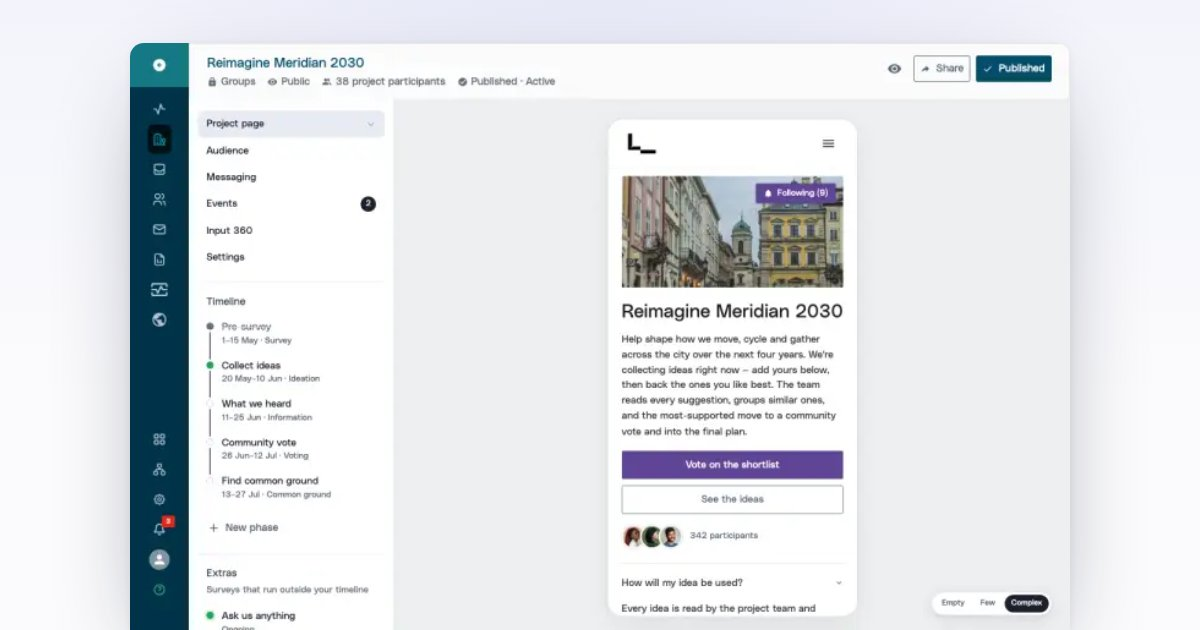
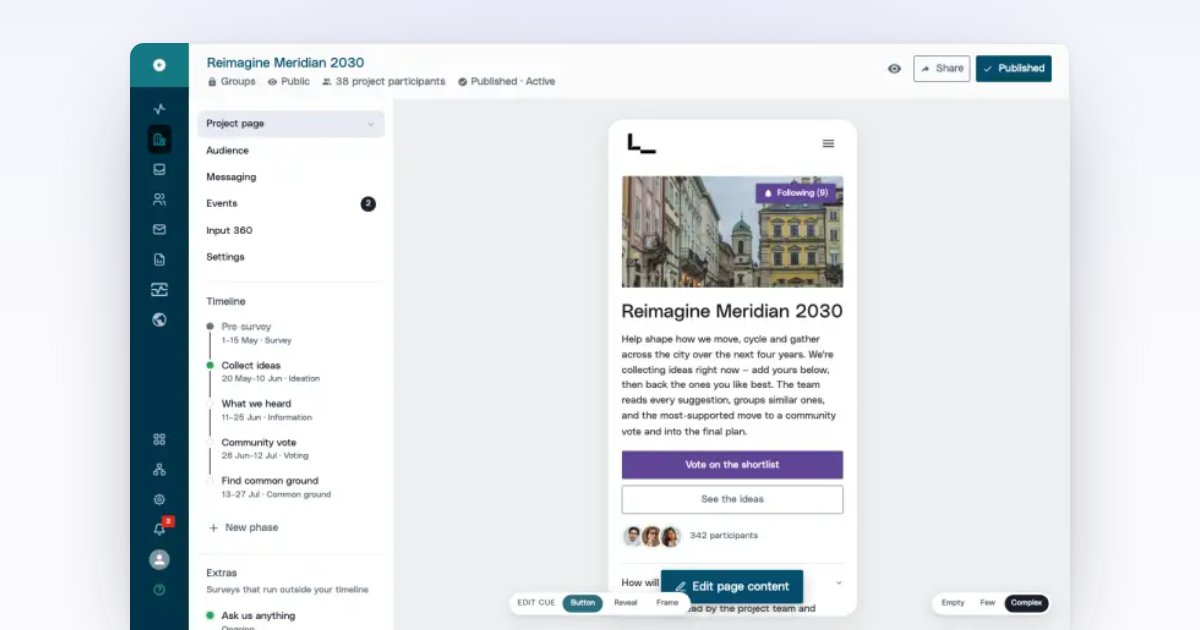
editor-builder-v3: whole-phone edit affordance — 3-cue explorer (Button/Reveal/Frame)
The phone preview is now one click target → content builder (intra-phone controls
inert, page still scrolls; keyboard-accessible as a real button). A bottom-centre
chip swaps three ways to signal it: persistent CTA, hover/focus reveal scrim, and
editor chrome (toolbar + dashed outline). All CTAs use the canonical .gv-btn
admin-dark BO button; Frame mode reserves toolbar headroom in fitPreview.

Changed region(s): [[0.4317, 0.8143, 0.6783, 0.9952]]

diff --git a/parallel-participation/prototypes/parallel-editor-builder-v3/index.html b/parallel-participation/prototypes/parallel-editor-builder-v3/index.html
@@ -419,19 +419,19 @@
   .cue-btn, .cue-corner, .cue-scrim, .cue-bar, .cue-outline { pointer-events: none; }
   .cue-btn svg, .cue-corner svg, .cue-scrim__cta svg, .cue-bar__label svg, .cue-bar__btn svg { display: inline-block; }
 
-  /* 1 · BUTTON — persistent CTA pinned to the preview, visible at rest. */
+  /* 1 · BUTTON — persistent CTA pinned to the preview, visible at rest.
+     The CTA is a real BO button (.gv-btn admin-dark, navy) so it matches the screen
+     we're on; .cue-btn only POSITIONS it + adds a white halo to lift it off content. */
   .cue-btn {
-    position: absolute; left: 50%; bottom: 16px; transform: translateX(-50%);
-    display: none; align-items: center; gap: 7px;
-    padding: 9px 16px; border-radius: 999px;
-    background: #2c6e7d; color: #fff; font-size: 13px; font-weight: 600; white-space: nowrap;
+    position: absolute; left: 50%; bottom: 18px; transform: translateX(-50%);
+    display: none; white-space: nowrap; z-index: 8;
     box-shadow: 0 8px 20px rgba(20,25,40,.24), 0 0 0 3px rgba(255,255,255,.92);
-    z-index: 8; transition: transform .15s ease, background .15s ease;
+    transition: transform .15s ease, filter .15s ease;
   }
-  .cue-btn svg { width: 15px; height: 15px; }
+  .cue-btn svg { width: 16px; height: 16px; }
   .phone-wrap.cue-1 .cue-btn { display: inline-flex; }
   .phone-wrap.cue-1:hover .cue-btn,
-  .phone-wrap.cue-1:focus-within .cue-btn { background: #21525d; transform: translateX(-50%) translateY(-1px); }
+  .phone-wrap.cue-1:focus-within .cue-btn { filter: brightness(.9); transform: translateX(-50%) translateY(-1px); }
 
   /* 2 · REVEAL — clean preview + tiny corner cue; engage fades in a full-surface scrim. */
   .cue-corner {
@@ -449,11 +449,10 @@
     background: rgba(18,38,44,.44);
     opacity: 0; transition: opacity .16s ease; z-index: 8;
   }
+  /* Scrim CTA is the same BO button (.gv-btn admin-dark); only the entrance differs. */
   .cue-scrim__cta {
-    display: inline-flex; align-items: center; gap: 8px;
-    padding: 11px 18px; border-radius: 999px;
-    background: #fff; color: #19282d; font-size: 13.5px; font-weight: 700;
-    box-shadow: 0 10px 26px rgba(0,0,0,.3); transform: translateY(7px); transition: transform .16s ease;
+    box-shadow: 0 10px 26px rgba(0,0,0,.34);
+    transform: translateY(7px); transition: transform .16s ease;
   }
   .cue-scrim__cta svg { width: 16px; height: 16px; }
   .phone-wrap.cue-2 .cue-scrim { display: flex; }
@@ -464,20 +463,20 @@
   .phone-wrap.cue-2:hover .cue-corner,
   .phone-wrap.cue-2:focus-within .cue-corner { opacity: 0; }
 
-  /* 3 · FRAME — editor chrome: a toolbar above + a dashed outline, both at rest. */
+  /* 3 · FRAME — editor chrome: a toolbar above + a dashed outline, both at rest.
+     fitPreview reserves headroom in this mode so the toolbar never clips (see
+     FRAME_CHROME). The "Open editor" pill is the same BO button as the other cues. */
   .cue-bar {
-    position: absolute; left: 2px; right: 2px; top: -44px; height: 34px;
+    position: absolute; left: 2px; right: 2px; top: -48px;
     display: none; align-items: center; justify-content: space-between;
     z-index: 8;
   }
   .cue-bar__label { display: inline-flex; align-items: center; gap: 7px; font-size: 12px; font-weight: 700; letter-spacing: .03em; color: #5b6573; }
-  .cue-bar__label svg { width: 14px; height: 14px; color: #2c6e7d; }
-  .cue-bar__btn {
-    display: inline-flex; align-items: center; gap: 6px;
-    padding: 7px 13px; border-radius: 8px; background: #2c6e7d; color: #fff;
-    font-size: 12.5px; font-weight: 600; box-shadow: 0 2px 6px rgba(44,110,125,.32);
-  }
-  .cue-bar__btn svg { width: 14px; height: 14px; }
+  .cue-bar__label svg { width: 14px; height: 14px; color: var(--gv-primary, #044d6c); }
+  .cue-bar__btn { box-shadow: 0 2px 6px rgba(4,77,108,.28); }
+  /* Toolbar-sized: BO-styled, just a touch tighter than a form button. */
+  .cue-bar__btn.gv-btn { padding: 7px 13px; font-size: 13px; }
+  .cue-bar__btn svg { width: 15px; height: 15px; }
   .phone-wrap.cue-3 .cue-bar { display: flex; }
   .cue-outline {
     position: absolute; inset: -5px; border-radius: 27px;
@@ -2304,10 +2303,10 @@
         </div><!-- /#phone -->
 
           <!-- ── Edit-cue overlays (one shown at a time via .cue-N on #phone-wrap) ── -->
-          <!-- 1 · Button -->
-          <span class="cue-btn" aria-hidden="true">
+          <!-- 1 · Button — real BO action button (.gv-btn admin-dark), positioned by .cue-btn -->
+          <span class="cue-btn gv-btn admin-dark" aria-hidden="true">
             <svg viewBox="0 0 24 24" fill="none" stroke="currentColor" stroke-width="2" stroke-linecap="round" stroke-linejoin="round"><path d="M12 20h9"/><path d="M16.5 3.5a2.121 2.121 0 1 1 3 3L7 19l-4 1 1-4 12.5-12.5z"/></svg>
-            Edit page content
+            <span class="gv-btn__label">Edit page content</span>
           </span>
           <!-- 2 · Reveal -->
           <span class="cue-corner" aria-hidden="true">
@@ -2315,9 +2314,9 @@
             Edit
           </span>
           <span class="cue-scrim" aria-hidden="true">
-            <span class="cue-scrim__cta">
+            <span class="cue-scrim__cta gv-btn admin-dark">
               <svg viewBox="0 0 24 24" fill="none" stroke="currentColor" stroke-width="2" stroke-linecap="round" stroke-linejoin="round"><path d="M12 20h9"/><path d="M16.5 3.5a2.121 2.121 0 1 1 3 3L7 19l-4 1 1-4 12.5-12.5z"/></svg>
-              Edit page content
+              <span class="gv-btn__label">Edit page content</span>
             </span>
           </span>
           <!-- 3 · Frame -->
@@ -2326,8 +2325,8 @@
               <svg viewBox="0 0 24 24" fill="none" stroke="currentColor" stroke-width="2" stroke-linecap="round" stroke-linejoin="round"><rect x="5" y="2" width="14" height="20" rx="2"/><path d="M12 18h.01"/></svg>
               Project page · preview
             </span>
-            <span class="cue-bar__btn">
-              Open editor
+            <span class="cue-bar__btn gv-btn admin-dark">
+              <span class="gv-btn__label">Open editor</span>
               <svg viewBox="0 0 24 24" fill="none" stroke="currentColor" stroke-width="2" stroke-linecap="round" stroke-linejoin="round"><path d="M5 12h14"/><path d="M13 6l6 6-6 6"/></svg>
             </span>
           </span>
@@ -3838,6 +3837,8 @@
     if (wrap) wrap.className = 'phone-wrap cue-' + n;
     document.querySelectorAll('.cue-chip button').forEach(b => b.classList.remove('on'));
     if (btn) btn.classList.add('on');
+    // Frame mode reserves toolbar headroom → re-fit the phone to the new available height.
+    if (window.fitPreview) requestAnimationFrame(window.fitPreview);
   }
   document.addEventListener('keydown', (e) => {
     if (e.key === 'Escape') {
@@ -4150,8 +4151,12 @@
     const key = phone.classList.contains('frame-window') ? 'window' : 'phone';
     const L = FRAME_LOGICAL[key];
     const MARGIN_X = 28, MARGIN_Y = 24;                      // breathing room (tight — frame as large as the canvas allows)
+    // Frame cue floats an editor toolbar ABOVE the phone — reserve headroom so it
+    // never clips under the back-office top bar. Other cues live inside the phone.
+    const wrap = document.getElementById('phone-wrap');
+    const FRAME_CHROME = (wrap && wrap.classList.contains('cue-3')) ? 120 : 0;
     const availW = Math.max(160, stage.clientWidth  - MARGIN_X * 2);
-    const availH = Math.max(160, stage.clientHeight - MARGIN_Y * 2);
+    const availH = Math.max(160, stage.clientHeight - MARGIN_Y * 2 - FRAME_CHROME);
     const scale = Math.min(availW / L.w, availH / L.h, 1);   // fit, never upscale
     phone.style.setProperty('--pz', scale.toFixed(4));
     phone.style.width  = (L.w * scale + L.border * 2) + 'px';
